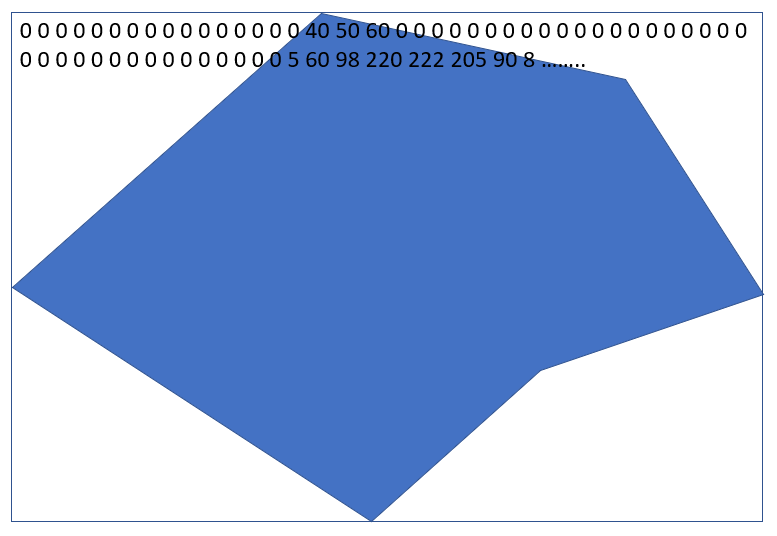
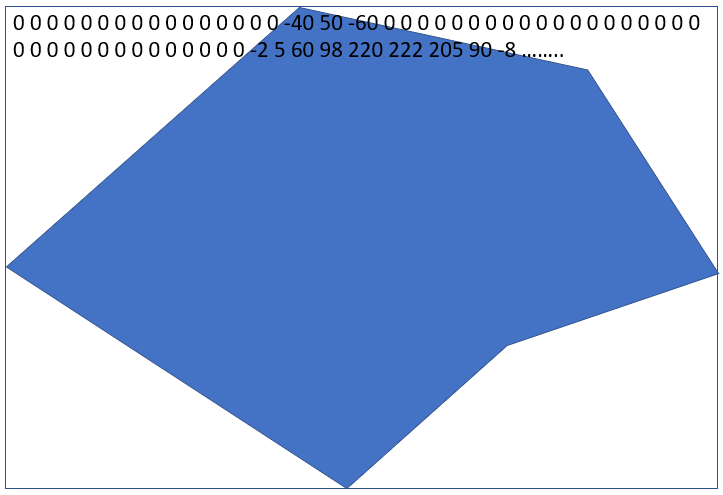
contour

diff --git a/docs/generation.md b/docs/generation.md
@@ -37,7 +37,7 @@ Chaque fichier respecte la structure suivante :
 - N altitudes en mètres (2 octets par altitude / 'n')
 
 La première altitude est celle du point en haut à gauche et la dernière altitude et celle du point en bas à droite.
-Toutes les altitudes en dehors du massif (décrit dans le fichier `api/geojson/massifs.geojson`) sont définies à 0.
+Toutes les altitudes en dehors du massif (décrit dans le fichier `api/geojson/massifs.geojson`) sont définies à 0 et celles sur le contour du massif sont négétives.
 
 ![massif](./massif.png)
 
